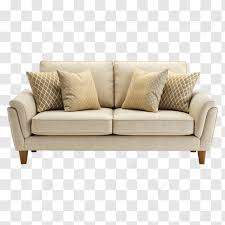
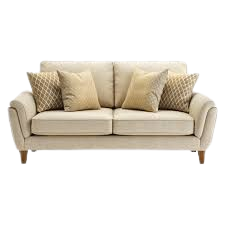
small changes

Changed region(s): [[0.0, 0.0, 1.0, 1.0]]

diff --git a/src/Components/Hero.jsx b/src/Components/Hero.jsx
@@ -15,14 +15,14 @@ export default function Home() {
       bgCircleDesktop: "bg-[#bed7de]",
       bgRightDesktop: "bg-[#3ba5c2]",
       bottomBoxLeft: "Next",
-      bottomBoxRightImg: "/Sofa3.png",
+      bottomBoxRightImg: "/Sofa2.png",
       bottomBoxBg: "bg-orange-200",
     },
     {
       id: 2,
       heading: "Modern Sofa",
       subtext: "Starting from $199.00",
-      mainImg: "/Sofa3.png",
+      mainImg: "/Sofa2.png",
       bgColor: "bg-orange-100",
       bgCircleMobile: "bg-orange-200",
       bgRightMobile: "bg-orange-300",

diff --git a/src/Components/Navbar.jsx b/src/Components/Navbar.jsx
@@ -8,7 +8,7 @@ export default function Navbar() {
   const [isOpen, setIsOpen] = useState(false);
 
   return (
-    <nav className="w-full z-30 absolute top-0 left-0 md:bg-transparent  bg-white">
+    <nav className="w-full z-30 absolute top-0 left-0 md:bg-transparent  pt-4 bg-white">
       <div className="max-w-6xl mx-auto px-6 lg:px-10 py-4 flex justify-between items-center">
 
         {/* LEFT SECTION */}
